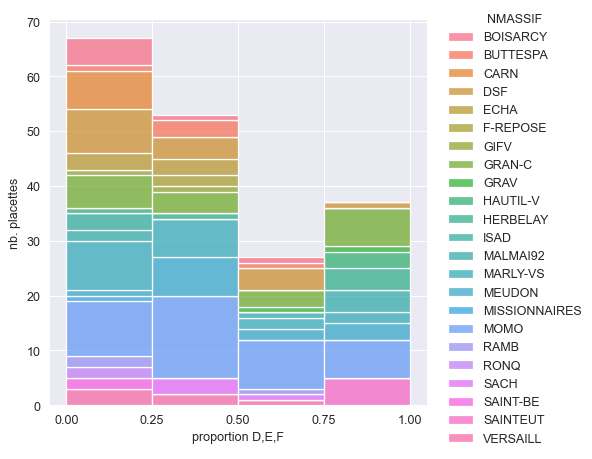
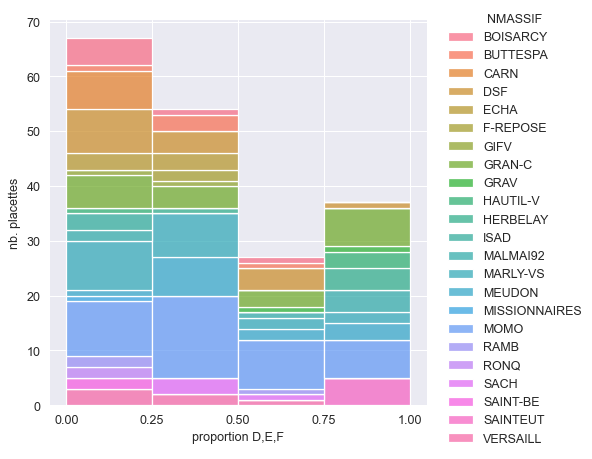
Signed-off-by: fprigent <frederic.prigent@onf.fr>

Changed region(s): [[0.2432, 0.3355, 0.4257, 0.488], [0.2432, 0.2135, 0.4257, 0.305]]

diff --git a/report/dsf_cht2022_report.html b/report/dsf_cht2022_report.html
@@ -33,9 +33,9 @@
 
 <body>
 <h1>DSF_CHT 2022</h1>
-<p><em>2022-07-21_1215   fprigent-ONF</em></p>
-<h3>184 placettes retenues (17 placettes epicollect)</h3>
-<h4>3680 arbres notés</h4>
+<p><em>2022-07-21_1225   fprigent-ONF</em></p>
+<h3>185 placettes retenues (17 placettes epicollect)</h3>
+<h4>3700 arbres notés</h4>
 <h2>Localisation des relevés</h2>
 <p><img src="./img/g_localisation.png" alt="Localisation"></p>
 <table>
@@ -1317,6 +1317,19 @@
 <td align="right">0</td>
 </tr>
 <tr>
+<td align="right">111</td>
+<td align="left">MARLY-VS</td>
+<td align="right">0</td>
+<td align="right">7</td>
+<td align="right">7</td>
+<td align="right">3</td>
+<td align="right">1</td>
+<td align="right">2</td>
+<td align="right">0.15</td>
+<td align="right">0.3</td>
+<td align="right">0</td>
+</tr>
+<tr>
 <td align="right">113</td>
 <td align="left">MARLY-VS</td>
 <td align="right">0</td>
@@ -2521,6 +2534,10 @@
 <td align="right">6</td>
 </tr>
 <tr>
+<td align="left">carré carré</td>
+<td align="right">1</td>
+</tr>
+<tr>
 <td align="left">carré elise</td>
 <td align="right">3</td>
 </tr>
@@ -2665,7 +2682,7 @@
 </tr>
 <tr>
 <td align="left">MARLY-VS</td>
-<td align="right">20</td>
+<td align="right">21</td>
 </tr>
 <tr>
 <td align="left">MEUDON</td>

diff --git a/report/README.md b/report/README.md
@@ -1,10 +1,10 @@
 
 # DSF_CHT 2022
 
-*2022-07-21_1215   fprigent-ONF*
+*2022-07-21_1225   fprigent-ONF*
 
-### 184 placettes retenues (17 placettes epicollect)
-#### 3680 arbres notés
+### 185 placettes retenues (17 placettes epicollect)
+#### 3700 arbres notés
     
 ## Localisation des relevés
 <img src="./img/g_localisation.png" alt="Localisation">
@@ -108,6 +108,7 @@
 |        103 | MARLY-VS      |   0 |   2 |   4 |  11 |   0 |   3 |      0.15 |       0.7  |            0 |
 |        105 | MARLY-VS      |   0 |   9 |   8 |   3 |   0 |   0 |      0    |       0.15 |            0 |
 |        106 | MARLY-VS      |   2 |   4 |  10 |   3 |   1 |   0 |      0.05 |       0.2  |            0 |
+|        111 | MARLY-VS      |   0 |   7 |   7 |   3 |   1 |   2 |      0.15 |       0.3  |            0 |
 |        113 | MARLY-VS      |   0 |   6 |   6 |   7 |   0 |   1 |      0.05 |       0.4  |            0 |
 |        115 | MARLY-VS      |   0 |  11 |   4 |   3 |   0 |   2 |      0.1  |       0.25 |            0 |
 |        116 | MARLY-VS      |   0 |   4 |   5 |   7 |   2 |   2 |      0.2  |       0.55 |            1 |
@@ -243,6 +244,7 @@
 |:----------------------|----------------:|
 | carré                 |              18 |
 | carré -  douchin a.   |               6 |
+| carré carré           |               1 |
 | carré elise           |               3 |
 | carré fiault -  dufay |               1 |
 | cn                    |               4 |
@@ -281,7 +283,7 @@
 | HERBELAY      |               5 |
 | ISAD          |               3 |
 | MALMAI92      |               7 |
-| MARLY-VS      |              20 |
+| MARLY-VS      |              21 |
 | MEUDON        |              13 |
 | MISSIONNAIRES |               1 |
 | MOMO          |              41 |
